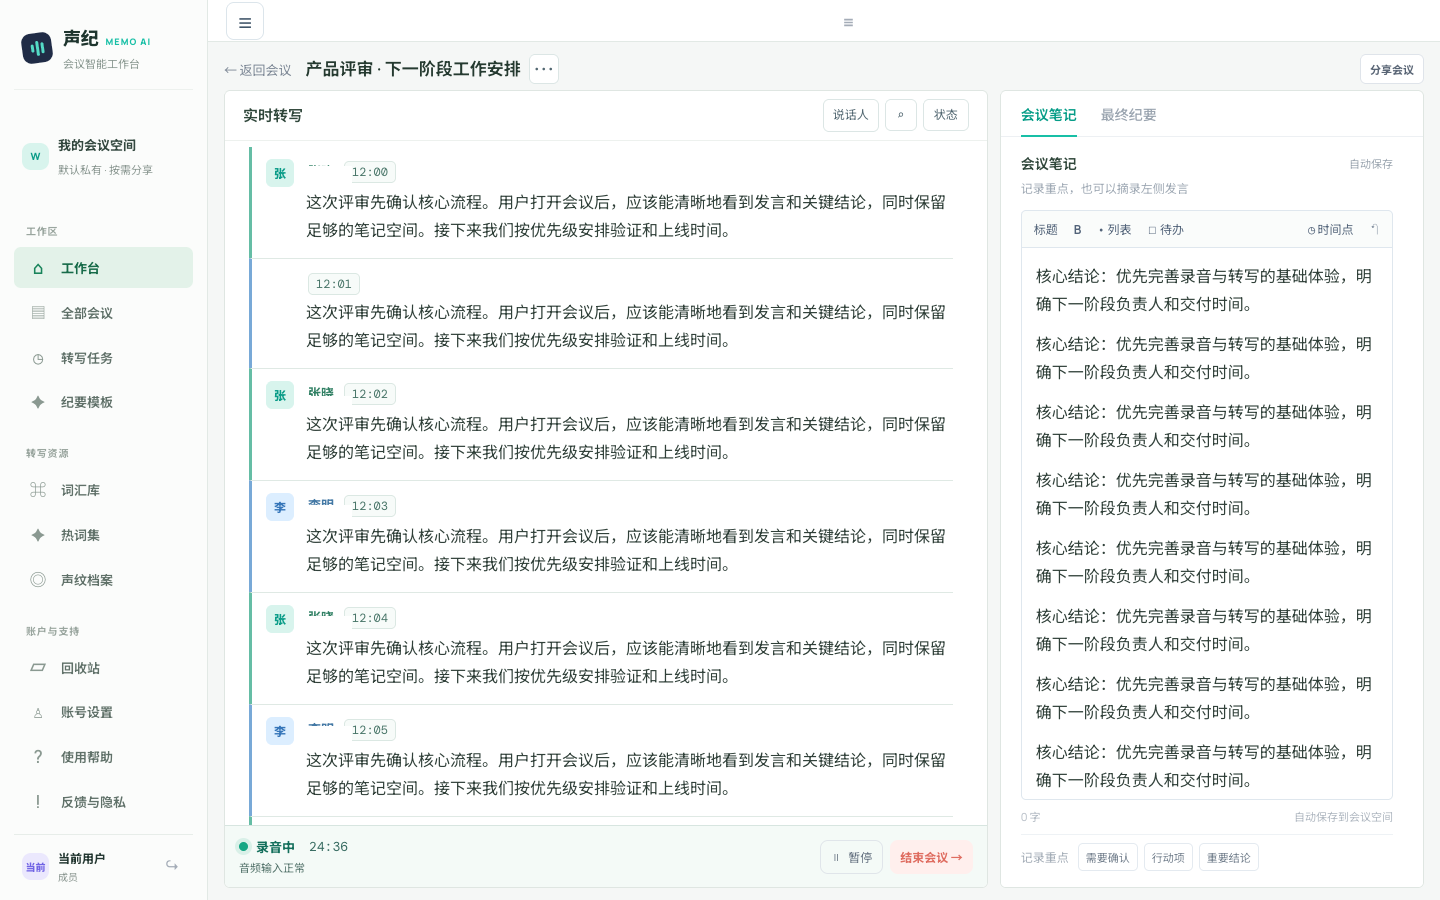
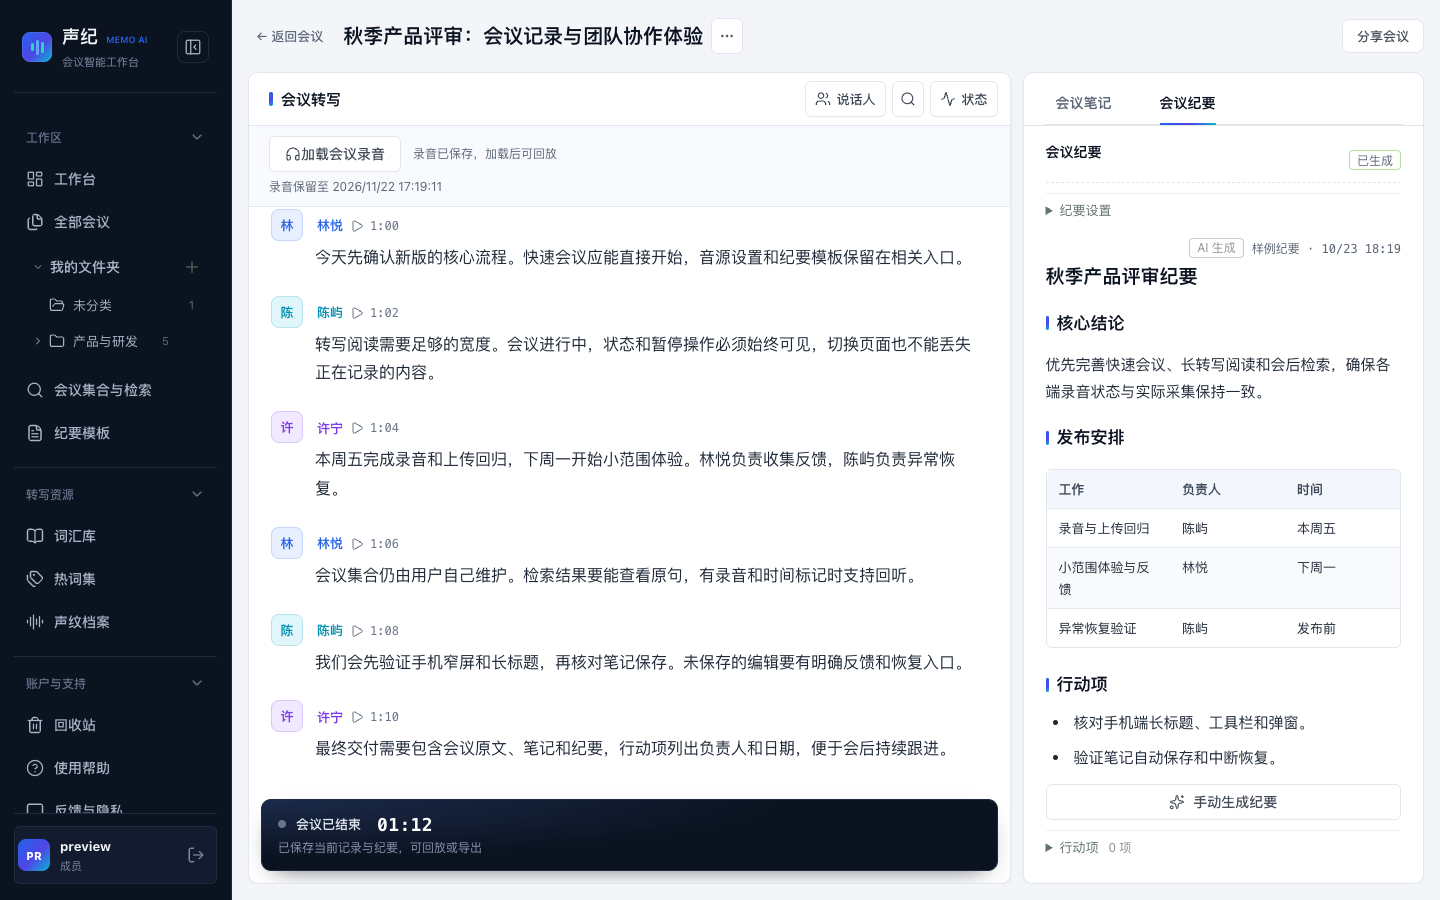
feat(projects): 声纪改为深度案例并更新为科技风改版后的界面
- 补会议入口、检索问答、加载性能与发布运维章节，列出尚未验收的部分
- 三张截图换为 vue-173 改版后的样例会议界面

diff --git a/.vitepress/theme/components/portfolio/caseStudies.ts b/.vitepress/theme/components/portfolio/caseStudies.ts
@@ -271,7 +271,7 @@ export const caseStudies: Record<string, CaseStudy> = {
     },
   },
   'memo-ai': {
-    context: ['声纪把录音视为会议记录的原始资料：实时转写用于跟随发言，会议结束后还能回听、校对、整理行动项和生成纪要。产品支持浏览器实时采集与文件任务，线上会议的声音可以和麦克风一起录入；多场会议可以组成集合，按原句检索和提问。后端使用 Rust / Axum，会议数据、版本和任务记录保存到 SQLite。', '可靠性的重点在录音长时间运行及失败之后。采集授权、音轨、录音分片、ASR 连接和总结请求会分别失败，页面需要准确呈现每个状态；本机备份、服务端归档和可撤销分享则决定用户能否恢复和安全交付会议资料。'],
+    context: ['声纪是面向会议的录音、实时转写和 AI 纪要工作台，目前以受邀试用的 Web 服务上线。它把录音视为会议记录的原始资料：实时转写用于跟随发言，会议结束后还能回听、校对、整理行动项和生成纪要。产品支持浏览器实时采集与文件任务，线上会议的声音可以和麦克风一起录入；多场会议可以组成集合，按原句检索和提问。后端使用 Rust / Axum，会议数据、版本和任务记录保存到 SQLite。', '可靠性的重点在录音长时间运行及失败之后。采集授权、音轨、录音分片、ASR 连接和总结请求会分别失败，页面需要准确呈现每个状态；本机备份、服务端归档和可撤销分享则决定用户能否恢复和安全交付会议资料。'],
     domains: [['会议资料', '音频、原始识别、校对文本、笔记、纪要版本和行动项分别保存并保持关联。'], ['采集与转写', '麦克风、浏览器标签页、客户端与回环设备都可作为音源；进行中的会议可以把线上会议声音和麦克风混成一路，录音与 ASR 生命周期独立。'], ['会议集合', '用户把多场会议组成集合，在集合内检索原文、语义检索和提问，回答附原句引用并可回听。'], ['权限与分享', '私人空间按会议所有者授权，限时分享只提供指定内容，撤销后重新校验访问。']],
     diagrams: [{ id: 'memo-ai', label: '采集、存储与整理', description: '浏览器保留本机音频备份；服务端独立持久化会议与转写任务。ASR 与总结分别接入，音频访问经过权限校验。' }],
     deployment: [['浏览器工作台', 'Vue 3 / Element Plus / Web Audio / IndexedDB', '音源选择与混音采集、分片备份、转写跟随、校对和恢复草稿。'], ['Rust 服务', 'Axum / Tokio / systemd / HTTPS 反代', '统一会议权限、ASR 接入、文件任务和总结；运行目录与私有数据分离。'], ['数据与文件处理', 'SQLite WAL / 增量 BLOB / FFmpeg', '录音按片写入和按 Range 读取，文件解码分段，备份使用数据库一致性快照。'], ['多端入口', 'Web / Android AudioRecord / Tauri 工程', 'Web 提供试用工作流；Android 麦克风前台服务与桌面壳分别适配采集和恢复。']],
@@ -286,6 +286,57 @@ export const caseStudies: Record<string, CaseStudy> = {
     evidence: [{ value: '实时 + 文件', label: '两种会议输入', detail: '同一会议模型承接实时采集和持久文件任务，保存与恢复逻辑共享。' }, { value: '1023 → 369 ms', label: '工作台首批会议', detail: '固定接口延迟的受控测试中首屏加载耗时，会议列表 1399 → 376 ms；不代表公网性能承诺。' }, { value: '版本校验', label: '协作修改保护', detail: '校对草稿、原始识别与纪要历史都有独立状态，不静默覆盖并发修改。' }],
     outcomes: ['Web 试用服务覆盖采集、转写、校对、纪要、回听、导出、会议集合问答与受控分享。', '将音源权限、录音恢复、任务持久化和内容版本纳入产品体验，既处理成功路径，也处理用户实际会遇到的中断。'],
     caption: '会议转写、笔记和音频回听工作台。',
+    specs: [{ value: '173 版', label: '前端持续迭代' }, { value: '2 小时', label: '单场会议上限' }, { value: '8 阶段', label: '迭代路线' }, { value: '6 端', label: 'Web 与原生工程' }],
+    pipeline: [
+      { name: '采集', tech: '麦克风 · 标签页', detail: '回环设备与在线会议混音' },
+      { name: '分片', tech: 'IndexedDB · BLOB', detail: '本机备份、服务端续传' },
+      { name: '转写', tech: '实时 ASR', detail: '断线重连、缺口补转写' },
+      { name: '笔记', tech: 'Tiptap', detail: '自动保存与冲突处理' },
+      { name: '纪要', tech: '大模型 · 模板', detail: '历史 20 版、智能命名' },
+      { name: '归档', tech: '文件夹 · 标签', detail: '两级目录、集合、回收站' },
+      { name: '检索', tech: 'BGE · FTS5', detail: '原句、语义与问会议' },
+      { name: '分享', tech: '限时只读', detail: '可选录音、随时撤销' },
+    ],
+    modesLabel: '会议入口',
+    modes: [
+      { name: '快速会议', tag: '一键开始', does: '一键进入记录页，麦克风采集、实时识别、结束后自动生成纪要。', how: '音源、语种、热词集、纪要模板和模型在快速会议设置里预先配置；录音按片备份，识别连接 30 分钟换票续接。', output: '逐句转写、说话人颜色、笔记与纪要并排，底部常驻状态栏显示录制、暂停与结束。', limit: '两小时实体麦克风、锁屏、弱网与低磁盘尚未系统验收。' },
+      { name: '线上会议', tag: '会中接入', does: '先开始会议，再在底部栏接入在线会议声音，远端发言与本人麦克风合成一路。', how: '浏览器标签页、客户端与回环设备三种入口；两路分别开关、至少保留一路，暂停时禁用的按钮说明原因。', output: '一场会议一条录音、一条转写时间线。', limit: '只支持浏览器标签页，尚未在真实线上会议产品中验证混音识别质量；原生端暂不支持会中接入。' },
+      { name: '文件转写', tag: '离线录音', does: '上传已有录音，后台分段转写，可选快速模式或说话人分离模式。', how: '输入与任务原子保存，FFmpeg 分段，失败续跑、停止与继续；以本地解码时长为准过滤越界片段。', output: '与实时会议相同的会议记录，可继续校对、总结与检索。', limit: '单文件上限 50 MiB、两小时；逐句时间轴依赖上游返回。' },
+    ],
+    capacity: {
+      label: '检索问答',
+      title: '原句、语义与问会议',
+      lead: '会议多了以后，用户要找的往往是“谁在哪场会上说过什么”。检索分三层：按原句查、按意思查、直接提问，回答都要能回到原句和录音。',
+      items: [
+        { value: '512 维', name: '本地向量', detail: '中文 embedding 在服务端 CPU 运行，向量单独存放，不依赖外部向量服务。' },
+        { value: 'FTS5 + 向量', name: '混合检索', detail: '原句、笔记、纪要分开建索引，关键词与语义结果合并排序。' },
+        { value: '8 问', name: '公网人工核对', detail: '问会议的回答附原句引用，点击可定位原句并回听片段。' },
+        { value: '100 场', name: '单次检索范围', detail: '按集合、文件夹、日期、状态与标签限定范围。' },
+      ],
+      note: '当前使用中文模型，英文与多语种只做了小样本；外部重排模型的质量不作承诺。',
+    },
+    benchmark: {
+      label: '加载性能',
+      title: '工作台与会议列表',
+      lead: '固定接口延迟的受控测试，指标为页面首批数据呈现耗时，对比工作区性能优化前后的两版前端。',
+      unit: '毫秒',
+      legend: ['优化前', '优化后'],
+      groups: [{ label: '受控测试', rows: [['工作台首批会议', 1023, 369], ['会议列表', 1399, 376]] }],
+      note: '这组数据用于比较前后两版前端，不代表公网性能承诺；跨会议行动项的后端仍会读取完整会议记录，存在规模风险。',
+    },
+    mediaLabel: '产品界面',
+    delivery: {
+      label: '发布与运维',
+      lead: '每次发布使用原子替换并保留可回退目录，前端资源逐字节校验，后端不随前端重启，进行中的录音不受影响。服务端每天备份并校验，另一台机器定时拉取异地副本。',
+      steps: [['构建', '版本号随发布递增'], ['原子发布', '保留上一版回退目录'], ['逐字节校验', '15 项静态资源'], ['接口回查', '未登录请求仍被拒绝'], ['每日备份', '备份后自动校验'], ['定时巡检', '每 5 分钟检查服务与磁盘']],
+      quality: [
+        { value: '10.6 秒', label: '真实断连补转写', detail: '识别连接中断后自动重连，并把中断期间的录音补转写。' },
+        { value: '31 分钟', label: '换票续接实测', detail: '识别凭据 30 分钟到期前续接，真实会议跨过到期点不断流。' },
+        { value: '146 项', label: '工作流接口检查', detail: '会议集合与检索问答发布时的接口全流程检查。' },
+      ],
+      rejectedTitle: '尚未验收的部分',
+      rejected: [['长会极限场景', '两小时实体麦克风、弱网、锁屏、低磁盘与设备断开。'], ['真实线上会议', '尚未在真实线上会议产品中验证混音转写。'], ['原生端', 'Android、iOS、鸿蒙只在模拟器或编译层验证，没有正式签名。'], ['运维告警', '巡检告警只写日志，外部通知与独立云灾备未接入。']],
+    },
   },
   'voice-platform': {
     context: ['语音应用平台将项目、应用、厂商资源和发布版本分开管理。应用可以选择 ASR、LLM、TTS 与 MCP 工具；已有资源配置可以复用，但修改厂商资源不会直接改写已经发布的应用快照。', '运行端既处理 ASR → LLM → TTS 级联，也处理阿里、豆包等厂商实时协议。工程重点是轮次、传输、模型配置和工具调用之间的状态一致性，尤其要区分服务端已生成回复、浏览器已收到音频和用户已播放完成。', '平台已以独立入口部署到云服务器供内部体验，原有业务服务与入口保持不动；同期推出桌面端工作台，把 ASR、LLM、TTS 单步和级联配方带到本机，并通过 CLI、MCP 和全局技能供开发工具调用。'],

diff --git a/.vitepress/theme/components/portfolio/media.ts b/.vitepress/theme/components/portfolio/media.ts
@@ -2,7 +2,7 @@ export type ProjectMedia = { id: string; label: string; kind?: 'flow' | 'phone' 
 export const projectMedia: Record<string, ProjectMedia[]> = {
   'amphion-cloud': [{ id: 'amphion-cloud', label: '开发者控制台 · 用量与消费趋势' }, { id: 'cloud-entitlements', label: '企业控制台 · 权益与授权' }, { id: 'cloud-licenses', label: '企业控制台 · 离线许可证' }, { id: 'cloud-devices', label: '企业控制台 · 在线激活与设备' }],
   'livecode-duplex': [{ id: 'livecode', label: '管理后台 · 在线会话与手机下发的任务', kind: 'phone' }, { id: 'livecode-call', label: '手机网页 · 通话与连接详情', kind: 'phone' }, { id: 'livecode-login', label: '手机网页 · 邀请码登录', kind: 'phone' }],
-  'memo-ai': [{ id: 'memo-ai', label: '实时转写与会议笔记' }, { id: 'memo-workspace', label: '录音恢复与文件转写工作台' }],
+  'memo-ai': [{ id: 'memo-ai', label: '会议记录 · 转写与纪要并排' }, { id: 'memo-workspace', label: '工作台 · 快速会议与最近会议' }, { id: 'memo-search', label: '会议集合与检索 · 查原文 / 语义 / 问会议' }],
   'voice-platform': [{ id: 'voice-console', label: '平台总览 · 能力资源与近 7 日观测' }, { id: 'voice-platform', label: '应用配置与原生语音资源' }, { id: 'voice-experience', label: '语音会话与播放恢复' }],
   commerce: [{ id: 'commerce', label: '商品管理与渠道映射' }, { id: 'commerce-app', label: '移动端商品与购物车入口' }],
   'private-asr': [{ id: 'private-asr', label: '语音调试 · 文件回放与逐句结果' }],

diff --git a/.vitepress/theme/components/portfolio/projects.ts b/.vitepress/theme/components/portfolio/projects.ts
@@ -49,8 +49,8 @@ const allProjects: Project[] = [
   },
   {
     id: 'memo-ai', title: '声纪 · 会议工作台', subtitle: '从实时转写到可回听的会议记录',
-    category: 'AI 产品', status: 'Web 试用', color: 'lavender', tags: ['Rust', 'Axum', 'SQLite', 'Web Audio'],
-    summary: '把录音、转写、笔记与纪要连接起来，保留会议结束后的校对和回听体验。',
+    category: 'AI 产品', status: '受邀试用', color: 'lavender', tags: ['Rust', 'Axum', 'SQLite', 'Vue 3', 'RAG'],
+    summary: '把录音、转写、笔记、纪要与跨会议检索连接起来，保留会议结束后的校对、回听和问答体验。',
     business: '会议记录需要覆盖采集、转写、保存、回放和整理，而不仅是生成一段文字。声纪提供实时会议与文件转写工作台，让用户在同一条工作流中管理音频、发言、笔记和最终纪要；多场会议可以组成集合，按原句检索和提问；线上会议的声音可以和麦克风一起采集。',
     scope: ['Web 会议工作台', '实时采集、线上会议声音与暂停恢复', '持久转写任务与会议记录', '会议集合检索与原句引用问答', '纪要、校对、导出与限时分享'],
     stack: [['前端', 'Vue 3 · Element Plus · Web Audio · MediaRecorder · IndexedDB'], ['服务端', 'Rust · Axum · Tokio · WebSocket'], ['持久化', 'SQLite · 音频分片 · 本机录音备份'], ['模型与多端', 'Amphion ASR · OpenAI 兼容总结接口 · Android Demo · Tauri 桌面工程']],
